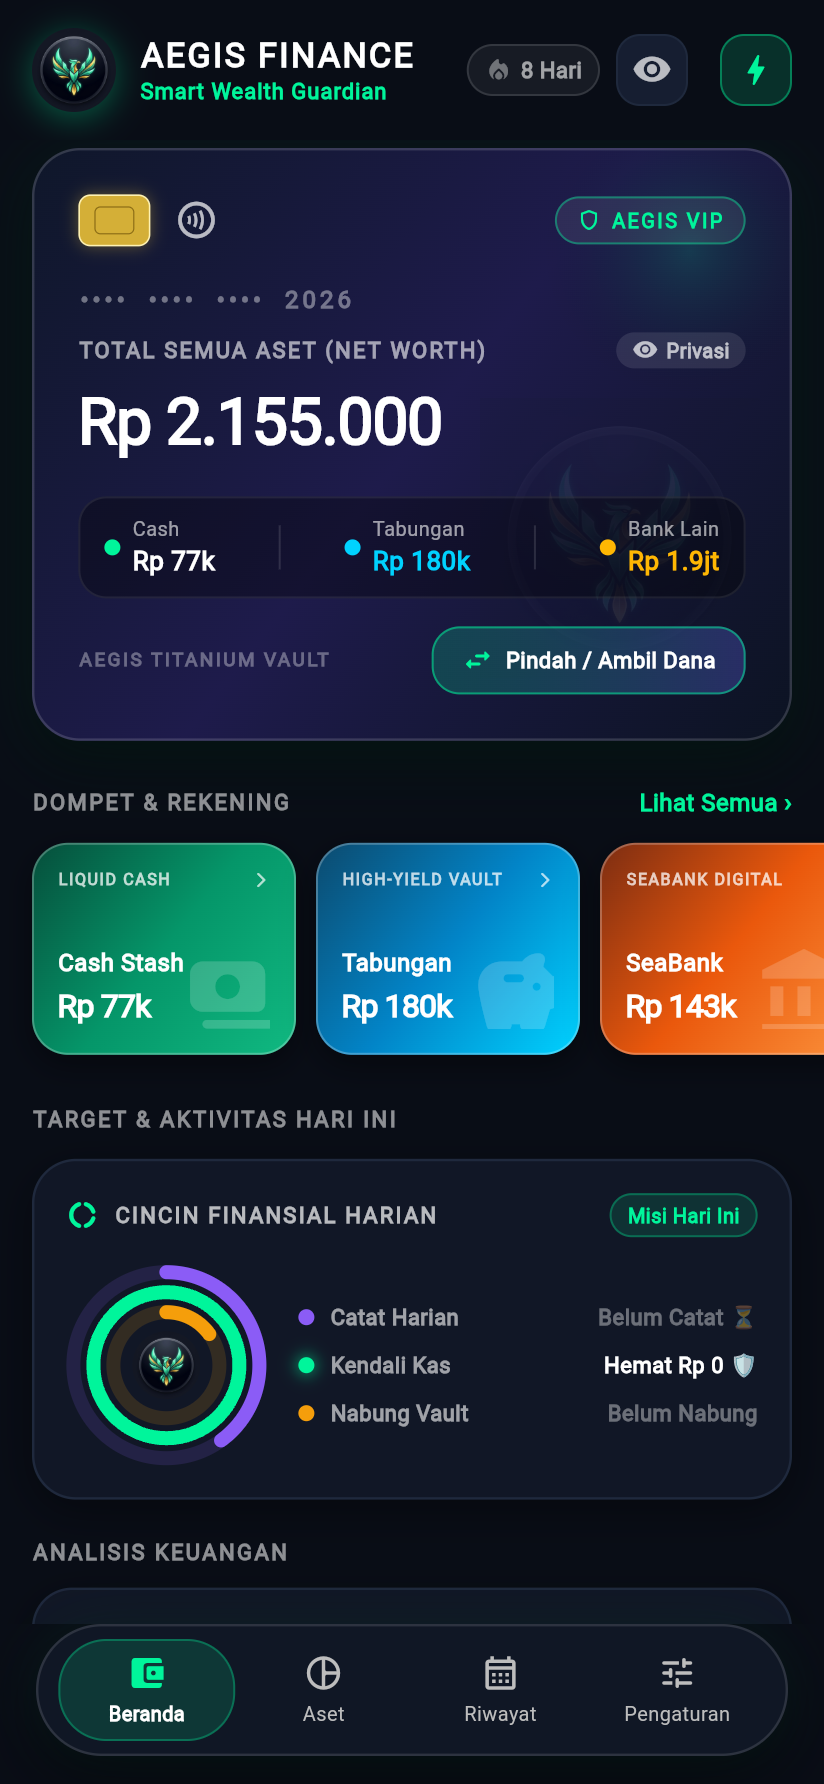
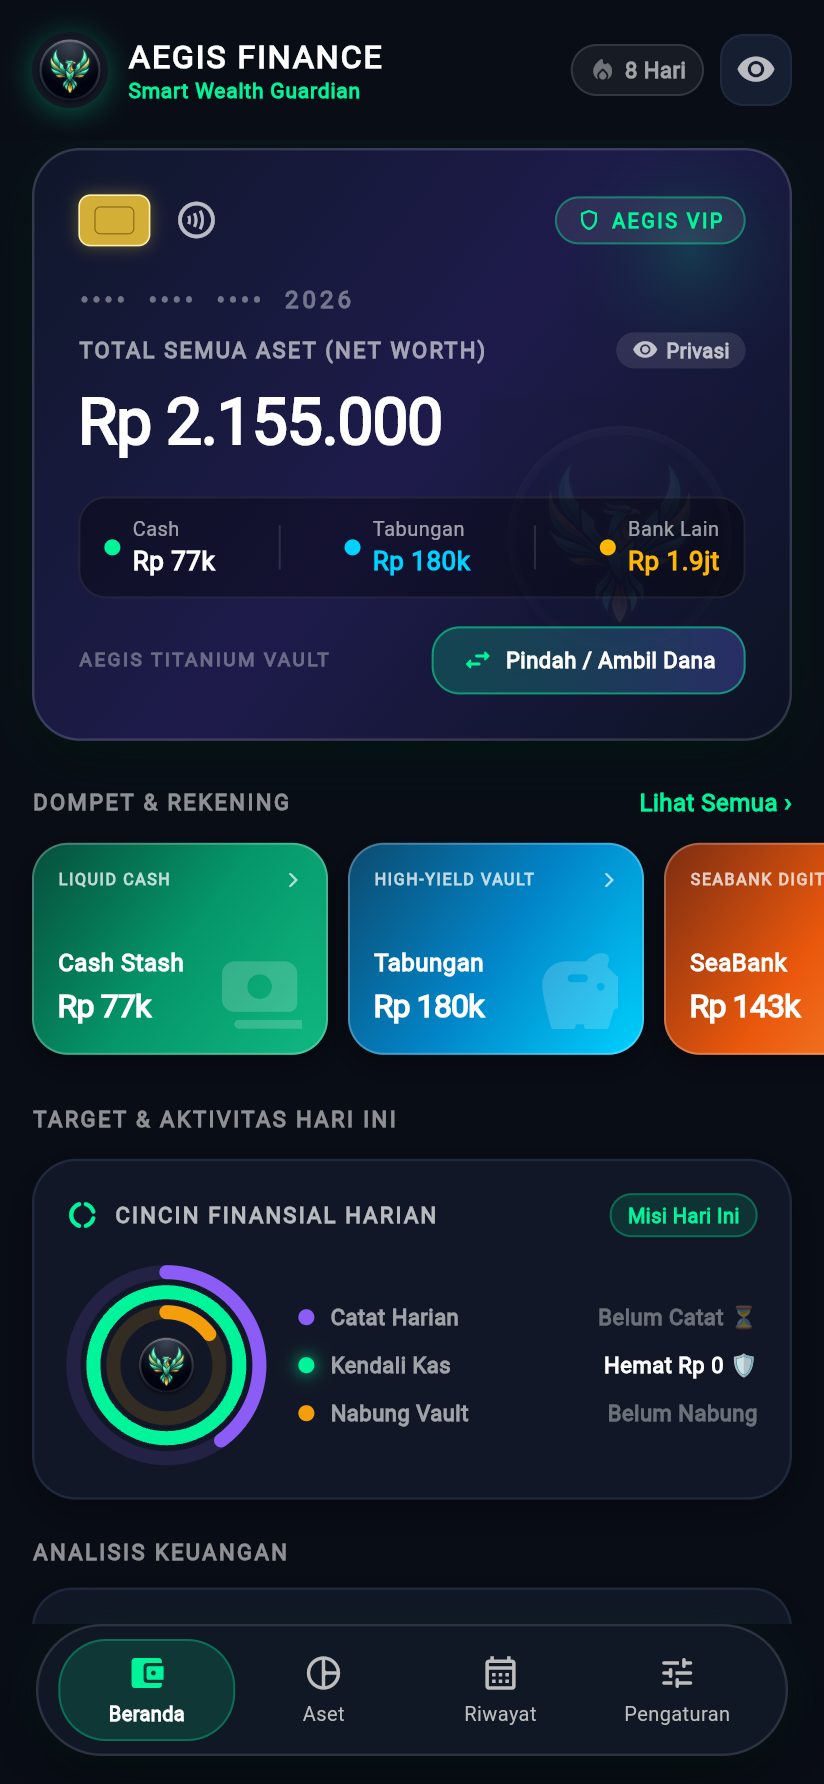
docs: overhaul README with anti-slop copywriting and 5 fresh UI showcase screenshots
- Replace generic marketing slop with authentic, direct product copy
- Showcase 5 distinct screens: Beranda, Catat 3 Detik, Alokasi Kantong, Riwayat Kas, and PIN Vault
- Update screenshots with official seed data and clean layout
- Apply theme awareness and anti-slop color accents across all screens

diff --git a/lib/screens/settings_screen.dart b/lib/screens/settings_screen.dart
@@ -137,7 +137,7 @@ class _SettingsScreenState extends State<SettingsScreen> {
     await _notificationService.requestPermissions();
     await _notificationService.showInstantNotification(
       id: 999,
-      title: '🔔 Financial Track: Pengingat Harian Berhasil!',
+      title: '🔔 Aegis Finance: Pengingat Harian Berhasil!',
       body: 'Pengeluaran hari ini sudah dicatat? Cek sisa saldo & tabunganmu sekarang!',
     );
 
@@ -145,7 +145,7 @@ class _SettingsScreenState extends State<SettingsScreen> {
       ScaffoldMessenger.of(context).showSnackBar(
         const SnackBar(
           content: Text('Notifikasi uji coba telah dikirimkan ke bar notifikasi!'),
-          backgroundColor: Color(0xFF6366F1),
+          backgroundColor: AppTheme.cyberMint,
         ),
       );
     }
@@ -159,9 +159,9 @@ class _SettingsScreenState extends State<SettingsScreen> {
         '${s.reminderHour.toString().padLeft(2, '0')}:${s.reminderMinute.toString().padLeft(2, '0')} WIB';
 
     return Scaffold(
-      backgroundColor: AppTheme.obsidianBg,
+      backgroundColor: isDark ? AppTheme.obsidianBg : Theme.of(context).scaffoldBackgroundColor,
       appBar: AppBar(
-        backgroundColor: AppTheme.obsidianBg,
+        backgroundColor: isDark ? AppTheme.obsidianBg : Theme.of(context).scaffoldBackgroundColor,
         elevation: 0,
         title: const Text(
           'Pengaturan & Notifikasi',
@@ -229,7 +229,7 @@ class _SettingsScreenState extends State<SettingsScreen> {
                 SwitchListTile(
                   title: const Text('Pengingat Harian', style: TextStyle(fontWeight: FontWeight.w600)),
                   value: s.reminderEnabled,
-                  activeThumbColor: const Color(0xFF6366F1),
+                  activeThumbColor: AppTheme.cyberMint,
                   onChanged: _toggleReminder,
                 ),
                 const Divider(height: 1),
@@ -243,9 +243,9 @@ class _SettingsScreenState extends State<SettingsScreen> {
                 ),
                 const Divider(height: 1),
                 ListTile(
-                  leading: const Icon(Icons.notification_add, color: Color(0xFF6366F1)),
-                  title: const Text('Uji Notifikasi', style: TextStyle(fontWeight: FontWeight.bold, color: Color(0xFF6366F1))),
-                  trailing: const Icon(Icons.play_arrow_rounded, color: Color(0xFF6366F1)),
+                  leading: const Icon(Icons.notification_add, color: AppTheme.cyberMint),
+                  title: const Text('Uji Notifikasi', style: TextStyle(fontWeight: FontWeight.bold, color: AppTheme.cyberMint)),
+                  trailing: const Icon(Icons.play_arrow_rounded, color: AppTheme.cyberMint),
                   onTap: _testInstantNotification,
                 ),
               ],
@@ -260,7 +260,7 @@ class _SettingsScreenState extends State<SettingsScreen> {
             child: Column(
               children: [
                 ListTile(
-                  leading: const Icon(Icons.phonelink_setup_rounded, color: Color(0xFF6366F1)),
+                  leading: const Icon(Icons.phonelink_setup_rounded, color: AppTheme.electricCyan),
                   title: const Text('Pusat Cadangan & Pindah HP', style: TextStyle(fontWeight: FontWeight.bold)),
                   subtitle: const Text('Simpan/pulihkan file cadangan atau kirim kode via WA', style: TextStyle(fontSize: 12)),
                   trailing: const Icon(Icons.arrow_forward_ios, size: 14),

diff --git a/lib/screens/home_screen.dart b/lib/screens/home_screen.dart
@@ -38,14 +38,15 @@ class HomeScreen extends StatelessWidget {
         final todayEntry = storageService.getEntryByDate(now);
         final todayExpense = todayEntry?.totalExpense ?? 0.0;
         final dailyLimit = storageService.dailyExpenseLimit;
+        final isDark = Theme.of(context).brightness == Brightness.dark;
 
         return Scaffold(
-          backgroundColor: AppTheme.obsidianBg,
+          backgroundColor: isDark ? AppTheme.obsidianBg : Theme.of(context).scaffoldBackgroundColor,
           body: CustomScrollView(
             slivers: [
               // Signature Branded Header Bar
               SliverAppBar(
-                backgroundColor: AppTheme.obsidianBg,
+                backgroundColor: isDark ? AppTheme.obsidianBg : Theme.of(context).scaffoldBackgroundColor,
                 pinned: true,
                 floating: true,
                 elevation: 0,

diff --git a/lib/screens/history_screen.dart b/lib/screens/history_screen.dart
@@ -80,9 +80,9 @@ class _HistoryScreenState extends State<HistoryScreen> {
         }
 
         return Scaffold(
-          backgroundColor: AppTheme.obsidianBg,
+          backgroundColor: isDark ? AppTheme.obsidianBg : Theme.of(context).scaffoldBackgroundColor,
           appBar: AppBar(
-            backgroundColor: AppTheme.obsidianBg,
+            backgroundColor: isDark ? AppTheme.obsidianBg : Theme.of(context).scaffoldBackgroundColor,
             elevation: 0,
             title: const Text(
               'Riwayat Keuangan',

diff --git a/README.md b/README.md
@@ -1,20 +1,20 @@
 <p align="center">
-  <img src="docs/screenshots/aegis_mascot_logo.jpg" alt="Aegis Finance Mascot" width="100" style="border-radius: 22px; box-shadow: 0 8px 24px rgba(0,245,155,0.25);"/>
+  <img src="docs/screenshots/aegis_mascot_logo.jpg" alt="Aegis Finance Mascot" width="90" style="border-radius: 20px; box-shadow: 0 6px 20px rgba(0,245,155,0.2);"/>
 </p>
 
-<h1 align="center">🛡 Aegis Finance</h1>
+<h1 align="center">Aegis Finance</h1>
 
 <p align="center">
-  <strong>Smart Wealth Guardian & 100% Offline-First Personal Finance</strong><br>
-  Pembukuan keuangan modern dengan estetika <em>Obsidian Cosmic</em>, visual cincin aktivitas ala <em>Apple Watch</em>, dan brankas privasi <em>Aegis Security Vault</em>.
+  <strong>Aplikasi Pembukuan & Manajemen Keuangan Pribadi 100% Offline-First</strong><br>
+  Lacak arus kas harian, tabungan, dan rekening bank digital tanpa registrasi akun, tanpa iklan, dan tanpa server luar.
 </p>
 
 <p align="center">
   <img src="https://img.shields.io/badge/Flutter-3.x-02569B?logo=flutter" alt="Flutter"/>
   <img src="https://img.shields.io/badge/Dart-3.x-0175C2?logo=dart" alt="Dart"/>
   <img src="https://img.shields.io/badge/Tests-31%2F31%20Passed-10B981" alt="Tests"/>
-  <img src="https://img.shields.io/badge/Theme-Dark%20%26%20Light-8B5CF6" alt="Theme"/>
   <img src="https://img.shields.io/badge/Privacy-100%25%20Offline-00F59B" alt="Privacy"/>
+  <img src="https://img.shields.io/badge/Theme-Obsidian%20%26%20Light-8B5CF6" alt="Theme"/>
   <img src="https://img.shields.io/badge/License-MIT-F59E0B" alt="License"/>
 </p>
 
@@ -25,77 +25,83 @@
 <table align="center">
   <tr>
     <td align="center"><b>💳 Beranda & Cincin</b></td>
-    <td align="center"><b>📊 Kantong Aset & Donut</b></td>
-    <td align="center"><b>📅 Riwayat Transaksi</b></td>
-    <td align="center"><b>🔒 Aegis Vault PIN</b></td>
+    <td align="center"><b>⚡ Catat 3 Detik</b></td>
+    <td align="center"><b>📊 Alokasi Kantong</b></td>
+    <td align="center"><b>📅 Riwayat Kas</b></td>
+    <td align="center"><b>🔒 PIN Vault</b></td>
   </tr>
   <tr>
-    <td><img src="docs/screenshots/aegis_finance_preview.png" width="200" alt="Beranda"/></td>
-    <td><img src="docs/screenshots/aegis_asset_preview.png" width="200" alt="Kantong Aset"/></td>
-    <td><img src="docs/screenshots/aegis_history_preview.png" width="200" alt="Riwayat Transaksi"/></td>
-    <td><img src="docs/screenshots/aegis_pin_lock_preview.png" width="200" alt="PIN Vault"/></td>
+    <td><img src="docs/screenshots/aegis_finance_preview.png" width="180" alt="Beranda"/></td>
+    <td><img src="docs/screenshots/aegis_input_preview.png" width="180" alt="Catat Cepat"/></td>
+    <td><img src="docs/screenshots/aegis_asset_preview.png" width="180" alt="Alokasi Kantong"/></td>
+    <td><img src="docs/screenshots/aegis_history_preview.png" width="180" alt="Riwayat Kas"/></td>
+    <td><img src="docs/screenshots/aegis_pin_lock_preview.png" width="180" alt="PIN Vault"/></td>
   </tr>
 </table>
 
 ---
 
-## 📥 Download APK (Langsung Pasang di HP)
+## 📥 Download APK Android
 
-Unduh installer resmi dan pasang langsung di HP Android tanpa perlu login atau koneksi internet:
+Pasang langsung di HP tanpa perlu login atau registrasi akun:
 
 <p align="center">
   <a href="https://github.com/M-Aqilaz/Aegis-Finance-Track/releases/latest/download/AegisFinance-v1.1-arm64.apk">
-    <img src="https://img.shields.io/badge/Download_APK_Ringan-21_MB_(ARM64)-00F59B?style=for-the-badge&logo=android&logoColor=0B0F17" alt="Download APK Ringan (ARM64)"/>
+    <img src="https://img.shields.io/badge/Download_APK_ARM64-21_MB-00F59B?style=for-the-badge&logo=android&logoColor=0B0F17" alt="Download APK ARM64"/>
   </a>
   &nbsp;&nbsp;
   <a href="https://github.com/M-Aqilaz/Aegis-Finance-Track/releases/latest/download/AegisFinance-Universal.apk">
-    <img src="https://img.shields.io/badge/Download_APK-Universal_Compat-6366F1?style=for-the-badge&logo=android&logoColor=FFFFFF" alt="Download Universal APK"/>
+    <img src="https://img.shields.io/badge/Download_Universal-Kompatibel_Semua_HP-6366F1?style=for-the-badge&logo=android&logoColor=FFFFFF" alt="Download Universal APK"/>
   </a>
 </p>
 
-> **💡 Rekomendasi:** Pilih **ARM64 (~21 MB)** untuk HP Android modern (98%+ pengguna). Pilih **Universal** jika menggunakan HP tipe lama (32-bit).
+> **💡 Rekomendasi:**
+> - Gunakan versi **ARM64 (~21 MB)** untuk smartphone Android modern (keluaran 2018 ke atas).
+> - Gunakan versi **Universal** jika memasang di perangkat lama atau emulator.
 >
-> **Cara Pasang:**
-> 1. Unduh file APK di atas.
-> 2. Buka file di HP & pilih **Izinkan instalasi**.
-> 3. Selesai! Aplikasi langsung siap dipakai tanpa iklan dan tanpa registrasi.
+> **Langkah Pemasangan:**
+> 1. Unduh salah satu file APK di atas melalui browser HP.
+> 2. Buka notifikasi unduhan lalu pilih **Install / Pasang**.
+> 3. Buka Aegis Finance — data langsung aktif dan tersimpan aman di HP Anda.
 
 ---
 
-## ✨ Fitur Utama
+## 🎯 Mengapa Aegis Finance?
 
-* 💎 **Net Worth & Multi-Kantong**: Pantau kas harian, tabungan, dan bank digital (SeaBank, Bank Jago, dompet kustom) dengan format nominal cerdas hingga skala Triliun tanpa terpotong.
-* 🟣🟢🟡 **Trio Cincin Finansial**: Visual radar aktivitas harian (*Catat, Kendali Kas, dan Nabung*) yang melacak konsistensi streak pembukuan Anda.
-* 🔍 **Detektor Kebocoran Finansial**: Analisis otomatis pola pengeluaran untuk mendeteksi *bocor halus* (kopi, jajan harian) beserta rekomendasi aksi hematnya.
-* 🌗 **Mode Terang & Gelap**: Dukungan penuh tema *Obsidian Cosmic* (gelap) dan *Clean White* (terang) yang dapat diganti kapan saja.
-* 📊 **Ekspor CSV (Excel) & Pusat Cadangan**: Ekspor catatan buku kas ke file `.csv` untuk dibuka di Excel/Google Sheets, atau salin kode cadangan via WhatsApp saat ganti HP.
-* 🗑 **Swipe-to-Delete Riwayat**: Hapus transaksi kilat dengan gestur geser ke kiri dilengkapi konfirmasi pengaman.
-* 🔒 **100% Offline-First & Aegis Vault**: Seluruh data tersimpan aman di memori lokal HP dengan proteksi PIN 4-digit taktil. Nol data dikirim ke cloud.
+Sebagian besar aplikasi keuangan saat ini mewajibkan pembuatan akun, mengunggah catatan pribadi ke cloud pihak ketiga, dan dipenuhi iklan atau langganan bulanan. 
+
+**Aegis Finance dirancang berbeda:**
+1. **Nol Dependensi Cloud**: Semua angka, catatan kas, dan mutasi saldo tersimpan murni di penyimpanan lokal HP Anda.
+2. **Input Dua Mode Cepat**: Catat pengeluaran instan lewat numpad 3 detik di beranda, atau kelola rincian item dengan kategori lengkap di formulir detail.
+3. **Multi-Kantong Saldo Nyata**: Pisahkan uang pegangan tunai (*Cash Stash*), brankas simpanan (*High-Yield Vault*), serta rekening bank digital (*SeaBank, Bank Jago, dll.*). Pindahkan dana antar-kantong secara instan.
+4. **Cincin Finansial Harian**: Tiga cincin konsentris (*Catat Harian, Kendali Anggaran, dan Porsi Tabungan*) yang memberi umpan balik visual terhadap disiplin finansial Anda.
+5. **Detektor Bocor Halus**: Algoritma lokal yang menganalisis frekuensi pengeluaran kecil berulang (kopi, cemilan harian) beserta estimasi dana yang bisa diselamatkan.
+6. **Ekspor & Pindah HP Mandiri**: Ekspor seluruh buku kas ke format `.csv` untuk dibuka di Excel/Spreadsheets, atau gunakan cadangan terenkripsi sekali-klik saat berganti perangkat.
+7. **Proteksi PIN 4-Digit**: Lindungi privasi layar saat HP dipinjam teman atau keluarga dengan PIN vault dan fitur sensor saldo instan (*Privacy Eye*).
 
 ---
 
-<details>
-<summary>💻 <b>Developer & Testing (31/31 Unit Tests Passed)</b></summary>
-<br>
+## 🛠 Pengembangan & Pengujian
+
+Aplikasi dibangun menggunakan Flutter & Dart dengan cakupan uji logika (whitebox & blackbox) komprehensif:
 
 ```bash
-# Jalankan unit tests
+# Uji seluruh algoritma dan rekurensi saldo (31 tests)
 flutter test
 
-# Jalankan di lokal
+# Jalankan aplikasi di emulator / perangkat fisik
 flutter run
 
-# Build release APK
+# Kompilasi paket rilis Android
 flutter build apk --split-per-abi
 ```
-</details>
 
 ---
 
-## 📜 Lisensi
+## 📄 Lisensi
 
-Didistribusikan di bawah **MIT License**. Lihat file `LICENSE` untuk informasi selengkapnya.
+Proyek ini dirilis di bawah lisensi **MIT**. Bebas dipelajari, dimodifikasi, dan dikembangkan kembali.
 
 <p align="center">
-  Crafted with care by <strong>M.Aqilaz</strong>
+  Dibuat dengan dedikasi oleh <strong>M. Aqilaz</strong>
 </p>
